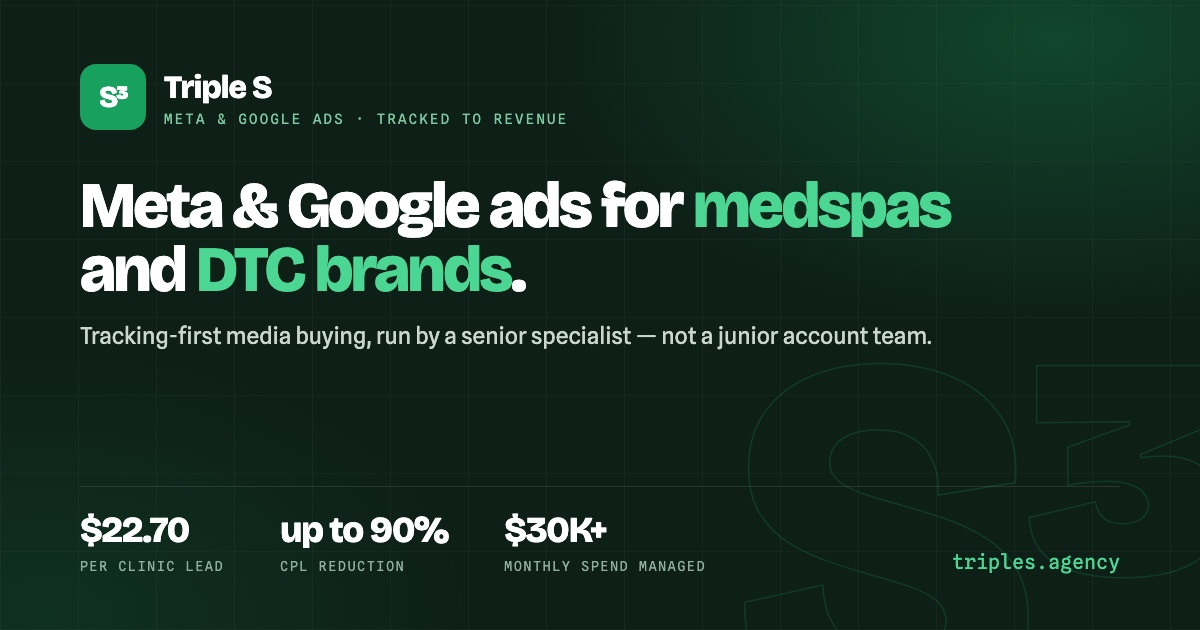
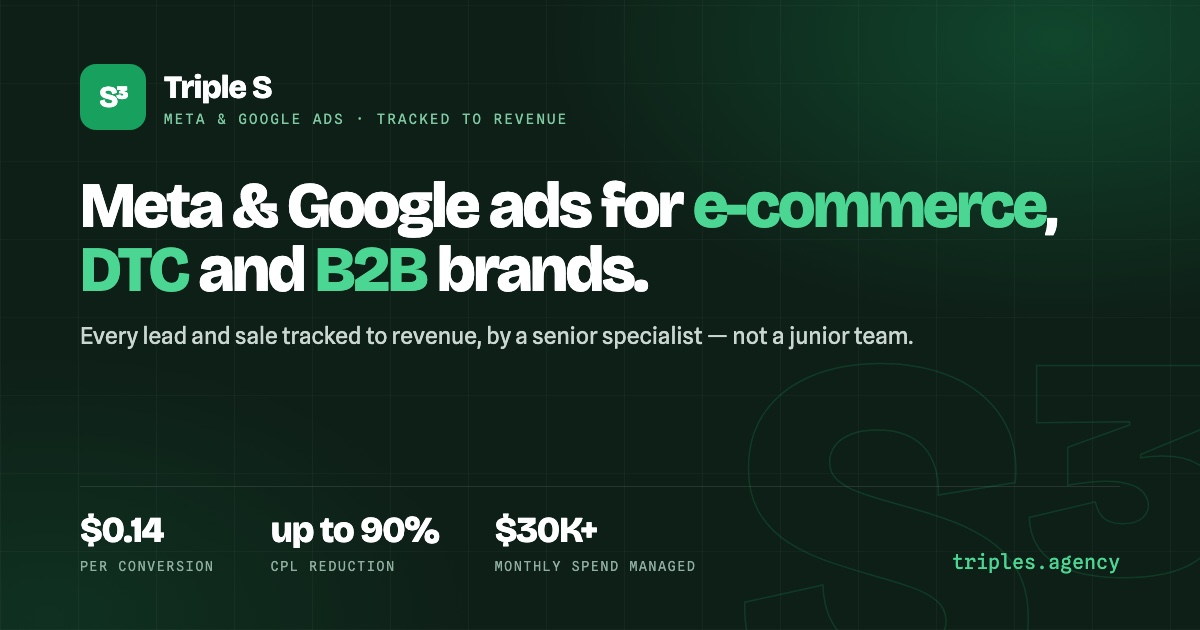
positioning: universal e-commerce/DTC/B2B hero, title/meta/OG/Twitter/JSON-LD, new OG image

diff --git a/index.html b/index.html
@@ -3,10 +3,10 @@
 <head>
 <meta charset="UTF-8">
 <meta name="viewport" content="width=device-width, initial-scale=1.0">
-<title>Meta &amp; Google Ads for Medspas &amp; DTC Brands | Triple S</title>
-<meta name="description" content="Meta and Google ads for US medspas, aesthetic clinics and DTC brands. Tracking-first media buying, run by one senior specialist, not a junior team.">
-<meta property="og:title" content="Meta &amp; Google Ads for Medspas &amp; DTC Brands | Triple S">
-<meta property="og:description" content="Meta and Google ads for US medspas, aesthetic clinics and DTC brands. Tracking-first media buying, run by one senior specialist, not a junior team.">
+<title>Meta &amp; Google Ads for E-commerce, DTC &amp; B2B | Triple S</title>
+<meta name="description" content="Performance marketing for e-commerce, DTC and B2B brands worldwide. Every lead and sale tracked to revenue by a senior specialist, not a junior team.">
+<meta property="og:title" content="Meta &amp; Google Ads for E-commerce, DTC &amp; B2B | Triple S">
+<meta property="og:description" content="Performance marketing for e-commerce, DTC and B2B brands worldwide. Every lead and sale tracked to revenue by a senior specialist, not a junior team.">
 <meta property="og:type" content="website">
 <meta property="og:url" content="https://triples.agency/">
 <meta property="og:image" content="https://triples.agency/assets/og-image.jpg">
@@ -17,8 +17,8 @@
 <link rel="canonical" href="https://triples.agency/">
 <meta name="robots" content="index, follow, max-image-preview:large, max-snippet:-1, max-video-preview:-1">
 <meta name="twitter:card" content="summary_large_image">
-<meta name="twitter:title" content="Meta &amp; Google Ads for Medspas &amp; DTC Brands | Triple S">
-<meta name="twitter:description" content="Meta and Google ads for US medspas, aesthetic clinics and DTC brands. Tracking-first media buying, run by one senior specialist, not a junior team.">
+<meta name="twitter:title" content="Meta &amp; Google Ads for E-commerce, DTC &amp; B2B | Triple S">
+<meta name="twitter:description" content="Performance marketing for e-commerce, DTC and B2B brands worldwide. Every lead and sale tracked to revenue by a senior specialist, not a junior team.">
 <meta name="twitter:image" content="https://triples.agency/assets/og-image.jpg">
 <script type="application/ld+json">
 {
@@ -31,7 +31,7 @@
       "url": "https://triples.agency/",
       "logo": "https://triples.agency/assets/og-image.jpg",
       "image": "https://triples.agency/assets/og-image.jpg",
-      "description": "Meta and Google ads for US medical-aesthetics clinics, medspas and DTC e-commerce brands. Tracking-first media buying (GA4, GTM, server-side) run by a senior specialist.",
+      "description": "Performance marketing agency for e-commerce, DTC and B2B brands worldwide. Meta, Google, TikTok, LinkedIn and DV360 campaigns run tracking-first (GA4, GTM, server-side) by a senior specialist, with every lead and sale tracked to revenue.",
       "email": "hello@triples.agency",
       "foundingDate": "2022",
       "founder": {
@@ -2619,12 +2619,12 @@
     <section class="hero">
       <div class="wrap hero-grid">
         <div class="hero-copy reveal">
-          <div class="eyebrow">Medspas · Aesthetic clinics · DTC e-commerce</div>
+          <div class="eyebrow">E-commerce · DTC · B2B · Worldwide</div>
           <!-- TODO(aviel): pick the H1. Alternatives:
-            A) "Medspa and DTC ad accounts run by a senior buyer, tracked to the sale."
-            B) "More booked consults and orders from Meta & Google, with tracking you can trust." -->
-          <h1>Meta &amp; Google ads for medspas and DTC brands &mdash; every lead tracked to revenue.</h1>
-          <p class="hero-lede">Tracking-first media buying, planned and run by a senior specialist &mdash; not handed off to a junior account team.</p>
+            A) "Paid media for e-commerce, DTC and B2B brands, run by a senior buyer and tracked to the sale."
+            B) "More orders and qualified leads from Meta & Google, with tracking you can trust." -->
+          <h1>Meta &amp; Google ads for e-commerce, DTC and B2B brands &mdash; every sale tracked to revenue.</h1>
+          <p class="hero-lede">Tracking-first media buying for brands worldwide, planned and run by a senior specialist &mdash; not handed off to a junior account team.</p>
           <form class="proposal-form" id="proposal-form">
             <input type="hidden" name="access_key" value="eaaf4af3-428e-4271-b661-1d4900d1aaf5">
             <input type="hidden" name="subject" value="New proposal request — triples.agency">
